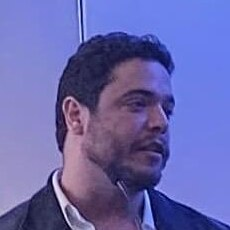
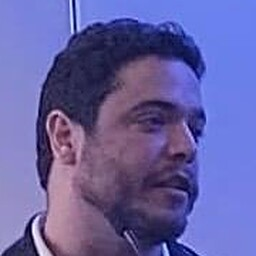
Match the site to the prototype and present the site on the home page
Implement Blog Prototype.dc.html directly instead of the handoff summary,
which differed from it. Body no longer sets the font size and line height,
code blocks have no syntax colours, and the first article heading starts
flush. Also fix the menu's "more" row, About spacing and hover states. Home,
archive, About, 404 and the open menu now match the rendered prototype from
360 to 1920 px, apart from the changes below.

Open the home page with the presentation band: what the site covers and
its topics, followed by the latest article. Update the site description,
the header line and the author sentence to match.

Crop the portrait closer to the face from the author's new photo, and
restore the original plate SVGs from the prototype.

Claude-Session: https://claude.ai/code/session_01LyEycHNyjBTkeSiRxhLKQH

diff --git a/assets/css/style.css b/assets/css/style.css
@@ -1,6 +1,4 @@
 /* Aureliano Guedes — "Applied science magazine" (direction 1a) */
-@import url("https://fonts.googleapis.com/css2?family=Newsreader:ital,opsz,wght@0,6..72,400;0,6..72,500;0,6..72,600;1,6..72,400;1,6..72,500&family=IBM+Plex+Mono:wght@400;500&display=swap");
-
 :root {
   --paper: #F5F0E4;        /* page */
   --paper-raised: #FAF6EC; /* plates, menu, code */
@@ -40,8 +38,6 @@ body {
   background: var(--paper);
   color: var(--ink);
   font-family: var(--serif);
-  font-size: var(--fs-body);
-  line-height: 1.62;
   overflow-wrap: break-word;
   -webkit-font-smoothing: antialiased;
 }
@@ -69,7 +65,7 @@ img { max-width: 100%; height: auto; }
   border-bottom: 1px solid var(--ink);
   background: var(--paper);
 }
-.site-name {
+.site-name, .site-name:hover {
   display: flex; align-items: center; gap: 12px; min-height: 44px;
   color: var(--ink); text-decoration: none; white-space: nowrap;
   font-size: clamp(17px, 15px + 0.6vw, 23px); font-weight: 600; letter-spacing: -0.01em;
@@ -84,7 +80,7 @@ img { max-width: 100%; height: auto; }
   font-family: var(--mono); font-size: clamp(12px, 11.5px + 0.1vw, 13px); letter-spacing: 0.12em; text-transform: uppercase;
   -webkit-tap-highlight-color: transparent;
 }
-.nav-link:hover, .nav-link[aria-current="page"] { color: var(--accent); }
+.nav-link:hover { color: var(--accent); }
 .nav-toggle::after {
   content: ""; border-top: 5px solid currentColor; border-left: 4px solid transparent; border-right: 4px solid transparent;
   transition: transform 120ms;
@@ -102,17 +98,17 @@ img { max-width: 100%; height: auto; }
 .articles-menu a:hover, .articles-menu a:focus-visible { background: var(--paper-deep); outline-offset: -2px; }
 .articles-menu time { font-family: var(--mono); font-size: 11px; letter-spacing: 0.1em; text-transform: uppercase; color: var(--muted); }
 .articles-menu .title { font-size: 19px; line-height: 1.25; font-weight: 500; }
-.articles-menu .more { min-height: 48px; justify-content: center; font-family: var(--mono); font-size: 14px; color: var(--accent); }
+.articles-menu .more { flex-direction: row; align-items: center; min-height: 48px; padding: 0 18px; font-family: var(--mono); font-size: 14px; color: var(--accent); text-decoration: underline; text-decoration-color: var(--accent); }
 
 /* ---------- Plates (per-post art) ---------- */
 .plate { margin: 0; display: flex; flex-direction: column; gap: 10px; min-width: 0; }
 .plate-frame { padding: 14px; border: 1px solid var(--ink); background: var(--paper-raised); }
 .plate-frame img { display: block; width: 100%; max-height: calc(100vh - 300px); min-height: 360px; object-fit: contain; }
-.plate figcaption, .plate-crop figcaption { font-family: var(--mono); font-size: 11px; letter-spacing: 0.06em; line-height: 1.5; color: var(--muted); }
+.plate figcaption { font-family: var(--mono); font-size: 11px; letter-spacing: 0.06em; line-height: 1.5; color: var(--muted); }
 .plate-crop { margin: 0 calc(-1 * var(--gutter)); }
 .plate-crop > div { border-top: 1px solid var(--ink); border-bottom: 1px solid var(--ink); background: var(--paper-raised); }
 .plate-crop img { display: block; width: 100%; max-height: 420px; object-fit: cover; }
-.plate-crop figcaption { padding: 10px var(--gutter) 0; letter-spacing: 0; }
+.plate-crop figcaption { padding: 10px var(--gutter) 0; font-family: var(--mono); font-size: 11px; color: var(--muted); }
 .plate { display: none; }
 
 /* ---------- Home cover ---------- */
@@ -122,6 +118,7 @@ img { max-width: 100%; height: auto; }
   padding: clamp(1.5rem, 1rem + 2.5vw, 3.25rem) var(--gutter) clamp(1.75rem, 1rem + 1.5vw, 2.25rem);
 }
 .cover-text { display: flex; flex-direction: column; min-width: 0; }
+.cover .meta { font-size: clamp(11px, 10.5px + 0.15vw, 12px); }
 .cover h1 { margin: clamp(0.875rem, 0.6rem + 1vw, 1.625rem) 0 0; font-size: var(--fs-display); line-height: 0.98; font-weight: 500; letter-spacing: -0.026em; text-wrap: balance; }
 .cover h1 a, .archive h2 a { color: var(--ink); text-decoration: none; }
 .cover h1 a:hover, .archive h2 a:hover { color: var(--accent); }
@@ -136,6 +133,7 @@ img { max-width: 100%; height: auto; }
 .cover-steps .label { margin: 2.5rem 0 10px; font-family: var(--mono); font-size: 11px; letter-spacing: 0.14em; text-transform: uppercase; color: var(--muted); }
 .cover-steps ol { display: grid; grid-template-columns: repeat(auto-fit, minmax(min(100%, 12rem), 1fr)); gap: 6px 24px; margin: 0; padding: 0; list-style: none; font-size: 17px; line-height: 1.3; }
 .cover-steps a { display: flex; gap: 8px; min-height: 32px; color: var(--ink); text-decoration: none; }
+.cover-steps a:hover { color: var(--accent); }
 .cover-steps span { padding-top: 3px; font-family: var(--mono); font-size: 12px; color: var(--accent); }
 
 .author-band {
@@ -145,7 +143,11 @@ img { max-width: 100%; height: auto; }
 .author-band .who { flex: 1 1 28rem; display: flex; align-items: flex-start; gap: 16px; min-width: 0; }
 .author-band img { flex: none; width: clamp(44px, 40px + 1vw, 60px); border-radius: 50%; filter: grayscale(1) contrast(1.05); }
 .author-band p { margin: 0; font-size: clamp(1.125rem, 1rem + 0.45vw, 1.4375rem); line-height: 1.32; text-wrap: pretty; }
-.author-band .aside { margin-top: 4px; font-family: var(--mono); font-size: 12px; letter-spacing: 0.06em; color: var(--muted); }
+/* As the home page's opening, the band sits under the header and the cover takes the remaining height */
+.home > .author-band:first-child { margin-top: 0; border-top: 0; border-bottom: 1px solid var(--ink); }
+.home > .author-band:first-child + .cover { flex: 1; }
+.author-band .meta { margin-top: 10px; font-size: 12px; line-height: normal; }
+.author-band .aside { margin-top: 4px; font-family: var(--mono); font-size: 12px; line-height: normal; letter-spacing: 0.06em; color: var(--muted); }
 .link-row { display: flex; flex-wrap: wrap; margin: 0 0 0 -10px; padding: 0; list-style: none; font-family: var(--mono); font-size: 13px; }
 .link-row a { display: inline-flex; align-items: center; min-height: 44px; padding: 0 10px; }
 .link-row .accent { color: var(--accent); }
@@ -165,10 +167,16 @@ img { max-width: 100%; height: auto; }
 .about-head { display: flex; flex-wrap: wrap; align-items: flex-end; gap: 20px 32px; margin-top: 12px; padding-bottom: clamp(1.5rem, 1rem + 2vw, 2.5rem); border-bottom: 1px solid var(--ink); }
 .about-head .page-title { flex: 1 1 20rem; margin: 0; }
 .about-head img { width: clamp(72px, 60px + 3vw, 104px); border-radius: 50%; filter: grayscale(1) contrast(1.05); }
-.about-body { max-width: var(--measure); margin-top: clamp(1.5rem, 1rem + 2vw, 2.5rem); }
-.about-body .lede { font-size: clamp(1.375rem, 1.2rem + 0.8vw, 1.75rem); line-height: 1.35; }
+.about-body { max-width: var(--measure); margin-top: clamp(1.5rem, 1rem + 2vw, 2.5rem); font-size: var(--fs-body); line-height: 1.62; }
+.about-body p { margin: 0 0 1.1em; }
+.about-body .lede { font-size: clamp(1.375rem, 1.2rem + 0.8vw, 1.75rem); line-height: 1.35; text-wrap: pretty; }
+.about-body .link-row { gap: 0 4px; margin: 1.75rem 0 0 -10px; font-size: 14px; }
+.page-404 { padding-bottom: clamp(2rem, 1.25rem + 3vw, 4.5rem); }
+.page-404 .page-title { margin: 0; }
+.page-404 p { margin: 1.25rem 0 0; font-size: 1.25rem; }
 
 /* ---------- Post ---------- */
+.post { flex: 1; display: flex; flex-direction: column; }
 .post-header {
   display: grid; grid-template-columns: minmax(0, 1fr); gap: clamp(1.5rem, 1rem + 3vw, 4rem); align-items: end;
   width: 100%; max-width: var(--wide); margin: 0 auto;
@@ -188,27 +196,31 @@ img { max-width: 100%; height: auto; }
 .toc ol, .toc-inline ol { margin: 0; padding: 0; list-style: none; font-size: 16px; line-height: 1.3; counter-reset: toc; }
 .toc a, .toc-inline a { display: flex; gap: 8px; align-items: baseline; min-height: 36px; padding: 6px 0; color: var(--ink); text-decoration: none; counter-increment: toc; }
 .toc a::before, .toc-inline a::before { content: counter(toc, decimal-leading-zero); flex: none; width: 1.5rem; font-family: var(--mono); font-size: 11px; color: var(--accent); }
-.toc a:hover, .toc-inline a:hover { color: var(--accent); }
+.toc a:hover { color: var(--accent); }
 .toc-inline { margin: 0 0 2rem; padding: 14px 0 6px; border-top: 1px solid var(--ink); border-bottom: 1px solid var(--rule); }
 .toc-inline ol { display: grid; grid-template-columns: repeat(auto-fit, minmax(min(100%, 13rem), 1fr)); gap: 0 20px; font-size: 17px; }
 .toc-inline a { min-height: 44px; padding: 10px 0; }
 
-.post-content { flex: 0 1 var(--measure); min-width: 0; }
-.post-content > :first-child { margin-top: 0; }
+.post-content { flex: 0 1 var(--measure); min-width: 0; font-size: var(--fs-body); line-height: 1.62; }
 .post-content p { margin: 0 0 1.1em; text-wrap: pretty; }
+.post-content > p:has(+ ul), .post-content > p:has(+ ol) { margin-bottom: 0.6em; text-wrap: wrap; }
+.post-content > p:has(+ .highlighter-rouge) { text-wrap: wrap; }
 .post-content h2 { margin: 2.4em 0 0.6em; font-size: var(--fs-h2); line-height: 1.15; font-weight: 500; letter-spacing: -0.015em; }
 .post-content h3 { margin: 1.8em 0 0.5em; font-size: var(--fs-h3); line-height: 1.2; font-weight: 600; letter-spacing: -0.01em; }
 .post-content h4 { margin: 1.6em 0 0.4em; font-size: 1.125em; line-height: 1.25; font-weight: 600; }
 .post-content ul, .post-content ol { margin: 0 0 1.1em; padding-left: 1.2em; }
 .post-content li { margin: 0.25em 0; }
 .post-content li > ul { margin: 0.25em 0 0; }
+.post-content li li { margin: 0.2em 0; }
 .post-content strong { font-weight: 600; }
 /* Keep nav lists inside the article free of the prose list spacing above */
 .post-content .toc-inline ol { margin: 0; padding: 0; }
 .post-content .toc-inline li { margin: 0; }
-.post-content .toc-label { margin: 0 0 8px; }
+.post-content .toc-label { margin: 0 0 4px; }
+/* The first heading starts flush, whether or not the inline contents precede it */
+.post-content > :first-child, .post-content > .toc-inline + * { margin-top: 0; }
 /* "**Note:**" at the start of a paragraph — add {: .note} in Markdown, see README */
-.post-content .note strong:first-child { margin-right: 8px; font-family: var(--mono); font-size: 12px; font-weight: 500; letter-spacing: 0.12em; text-transform: uppercase; color: var(--accent); }
+.post-content .note strong:first-child { margin-right: 5px; font-family: var(--mono); font-size: 12px; font-weight: 500; letter-spacing: 0.12em; text-transform: uppercase; color: var(--accent); }
 .step-label { display: block; margin-bottom: 4px; font-family: var(--mono); font-size: 11px; font-weight: 500; letter-spacing: 0.14em; text-transform: uppercase; color: var(--accent); }
 
 /* ---------- Code ---------- */
@@ -221,25 +233,21 @@ code { font-family: var(--mono); font-size: 0.82em; }
 .code-copy:hover { color: var(--accent); }
 pre {
   margin: 0; overflow-x: auto; padding: 16px 18px;
-  border: 1px solid var(--rule); background: #FBF8F0;
-  font-size: clamp(13px, 12.5px + 0.15vw, 14px); line-height: 1.6; tab-size: 4;
+  border: 1px solid var(--rule); background: #FBF8F0; color: var(--ink);
+  font-family: var(--mono); font-size: clamp(13px, 12.5px + 0.15vw, 14px); line-height: 1.6; white-space: pre; tab-size: 4;
 }
 pre code { font-size: inherit; }
-/* Rouge: two inks only */
-.highlight .c, .highlight .c1, .highlight .cm { color: var(--muted); font-style: italic; }
-.highlight .s, .highlight .s1, .highlight .s2, .highlight .sa, .highlight .si, .highlight .sd { color: var(--accent); }
-.highlight .k, .highlight .kn, .highlight .kc, .highlight .ow { font-weight: 500; }
-.highlight .nf, .highlight .nc { text-decoration: underline; text-decoration-color: var(--rule); text-underline-offset: 0.2em; }
-.highlight .mi, .highlight .mf { color: var(--accent); }
 
 .post-author { display: flex; align-items: flex-start; gap: 16px; margin-top: 3rem; padding: 20px 0; border-top: 1px solid var(--ink); border-bottom: 1px solid var(--ink); }
 .post-author img { flex: none; width: 48px; border-radius: 50%; filter: grayscale(1); }
-.post-author p { margin: 0; font-size: 1.0625em; line-height: 1.4; }
+.post-author p { margin: 0; font-size: 1.0625em; line-height: 1.4; text-wrap: wrap; }
 .post-content .post-author .link-row { margin: 6px 0 0 -10px; padding: 0; }
+.post-content .post-author .link-row li { margin: 0; }
+.post-author .link-row li, .author-band .link-row li { display: flex; }
 
 /* ---------- Footer ---------- */
 .site-footer {
-  display: flex; flex-wrap: wrap; align-items: center; justify-content: space-between; gap: 4px 24px;
+  flex: none; display: flex; flex-wrap: wrap; align-items: center; justify-content: space-between; gap: 4px 24px;
   padding: 8px var(--gutter); border-top: 1px solid var(--ink);
   font-family: var(--mono); font-size: 12px; color: var(--muted);
 }
@@ -250,6 +258,12 @@ pre code { font-size: inherit; }
 @media (max-width: 379px) {
   .site-photo { display: none; }
   .site-header { gap: 8px; }
+}
+
+/* The topics stop fitting on one line here: columns instead of separators left hanging at line ends */
+@media (max-width: 1119px) {
+  .author-band .meta { display: grid; grid-template-columns: repeat(auto-fit, minmax(min(100%, 15rem), 1fr)); gap: 4px 24px; }
+  .author-band .meta [aria-hidden] { display: none; }
 }
 
 @media (min-width: 960px) {

diff --git a/design-system/src/components/AuthorBand.tsx b/design-system/src/components/AuthorBand.tsx
@@ -1,26 +1,30 @@
 import { LinkRow } from "./LinkRow";
+import { Meta } from "./Meta";
 import type { LinkItem } from "../types";
 
 export interface AuthorBandProps {
-  /** One sentence about what the author does. */
+  /** One sentence about what the site covers. */
   intro: string;
   /** Short mono line below the sentence. */
   aside?: string;
+  /** What the site covers, as a mono line. The first topic gets the vermilion accent. */
+  topics?: string[];
   photoSrc: string;
   /** Used as the portrait's alternative text. */
   name: string;
   links?: LinkItem[];
 }
 
-/** Full-width band on the deep paper tone that introduces the author at the end of the home page. */
-export function AuthorBand({ intro, aside, photoSrc, name, links = [] }: AuthorBandProps) {
+/** Full-width band on the deep paper tone that opens the home page: who writes, what about, and the topics. Render it first inside <main className="home">. */
+export function AuthorBand({ intro, aside, topics = [], photoSrc, name, links = [] }: AuthorBandProps) {
   return (
-    <section className="author-band" aria-label="About the author">
+    <section className="author-band" aria-label="About this site">
       <div className="who">
         <img src={photoSrc} alt={name} width={60} height={60} />
         <div>
           <p>{intro}</p>
           {aside && <p className="aside">{aside}</p>}
+          {topics.length > 0 && <Meta kind={topics[0]} items={topics.slice(1)} />}
         </div>
       </div>
       <LinkRow links={links} />

diff --git a/index.html b/index.html
@@ -1,9 +1,10 @@
 ---
 layout: default
-description: "Articles on AI for refinery operations and technical document search, by Aureliano Guedes."
 ---
 {%- assign lead = site.posts.first %}
+{%- assign number_words = "zero,one,two,three,four,five,six,seven,eight,nine,ten,eleven,twelve" | split: "," %}
 <main class="home">
+  {% include author-band.html %}
   {%- if lead %}
   <section class="cover">
     <div class="cover-text">
@@ -13,7 +14,7 @@ description: "Articles on AI for refinery operations and technical document sear
       <a class="cta" href="{{ lead.url | relative_url }}">Read the {{ lead.kind | default: "article" | downcase }} →</a>
       {%- if lead.steps %}
       <div class="cover-steps">
-        <p class="label">In {{ lead.steps.size }} steps</p>
+        <p class="label">In {{ number_words[lead.steps.size] | default: lead.steps.size }} steps</p>
         <ol>
           {%- for s in lead.steps %}
           <li><a href="{{ lead.url | relative_url }}#{{ s.id }}"><span>{{ forloop.index | prepend: '0' | slice: -2, 2 }}</span>{{ s.label }}</a></li>
@@ -30,5 +31,4 @@ description: "Articles on AI for refinery operations and technical document sear
     <p>No articles published yet.</p>
   </div>
   {%- endif %}
-  {% include author-band.html %}
 </main>

diff --git a/_includes/author-band.html b/_includes/author-band.html
@@ -1,9 +1,10 @@
-<section class="author-band" aria-label="About the author">
+<section class="author-band" aria-label="About this site">
   <div class="who">
     <img src="{{ site.profile_image | relative_url }}" alt="{{ site.author | escape }}" width="60" height="60">
     <div>
       <p>{{ site.intro }}</p>
-      <p class="aside">Before refineries, bioinformatics.</p>
+      <p class="aside">{{ site.tagline }}</p>
+      <p class="meta">{% for topic in site.topics %}{% unless forloop.first %}<span aria-hidden="true">·</span>{% endunless %}<span{% if forloop.first %} class="kind"{% endif %}>{{ topic | escape }}</span>{% endfor %}</p>
     </div>
   </div>
   <ul class="link-row">

diff --git a/.design-sync/previews/AuthorBand.tsx b/.design-sync/previews/AuthorBand.tsx
@@ -7,8 +7,9 @@ export const Default = () => (
 <AuthorBand
     name="Aureliano Guedes"
     photoSrc={profilePhoto}
-    intro="I build predictive models for refinery engineers and write about the data and code behind them."
-    aside="Before refineries, bioinformatics."
+    intro="I write about technology, mainly AI: how to apply it and how to lead projects that deliver results."
+    aside="Technology is only a means to building real solutions."
+    topics={["Technology & AI", "Article commentary", "Market analysis & trends", "Tutorials & tips"]}
     links={[
       { label: "About", href: "/about/", accent: true },
       { label: "All articles", href: "/articles/" },

diff --git a/_layouts/default.html b/_layouts/default.html
@@ -7,6 +7,7 @@
   <meta name="description" content="{{ page.description | default: site.description | strip_html | escape }}">
   <link rel="preconnect" href="https://fonts.googleapis.com">
   <link rel="preconnect" href="https://fonts.gstatic.com" crossorigin>
+  <link rel="stylesheet" href="https://fonts.googleapis.com/css2?family=Newsreader:ital,opsz,wght@0,6..72,400;0,6..72,500;0,6..72,600;1,6..72,400;1,6..72,500&family=IBM+Plex+Mono:wght@400;500&display=swap">
   <link rel="stylesheet" href="{{ '/assets/css/style.css' | relative_url }}">
   {% if page.art %}<meta property="og:image" content="{{ page.art | absolute_url }}">{% endif %}
   {% feed_meta %}

diff --git a/.design-sync/previews/PostContent.tsx b/.design-sync/previews/PostContent.tsx
@@ -29,7 +29,7 @@ export const ArticleBody = () => (
     <Note>The code in this tutorial targets those older interfaces.</Note>
     <PostAuthor
       photoSrc={profilePhoto}
-      intro="I build predictive models for refinery engineers and write about the data and code behind them."
+      intro="I write about technology, mainly AI: how to apply it and how to lead projects that deliver results."
       links={[
         { label: "About Aureliano", href: "/about/", accent: true },
         { label: "All articles", href: "/articles/" },

diff --git a/design-system/src/assets.ts b/design-system/src/assets.ts
@@ -2,7 +2,7 @@ import plate from "../../assets/art/rag-postgres-tutorial.svg";
 import plateCrop from "../../assets/art/rag-postgres-tutorial-crop.svg";
 import photo from "../../assets/images/profile.jpeg";
 
-/** Portrait of Aureliano Guedes, 230 × 230 px. */
+/** Portrait of Aureliano Guedes, 256 × 256 px. */
 export const profilePhoto: string = photo;
 /** Full plate for the RAG tutorial, 520 × 600 px. */
 export const ragPostgresPlate: string = plate;

diff --git a/.design-sync/previews/PostAuthor.tsx b/.design-sync/previews/PostAuthor.tsx
@@ -6,7 +6,7 @@ export const Default = () => (
   <Paper>
 <PostAuthor
     photoSrc={profilePhoto}
-    intro="I build predictive models for refinery engineers and write about the data and code behind them."
+    intro="I write about technology, mainly AI: how to apply it and how to lead projects that deliver results."
     links={[
       { label: "About Aureliano", href: "/about/", accent: true },
       { label: "All articles", href: "/articles/" },

diff --git a/_includes/site-nav.html b/_includes/site-nav.html
@@ -3,7 +3,7 @@
     <img class="site-photo" src="{{ site.profile_image | relative_url }}" alt="" width="36" height="36">
     {{ site.author | escape }}
   </a>
-  <p class="site-folio">AI for refinery operations · Technical document search</p>
+  <p class="site-folio">Technology and AI in practice</p>
   <nav aria-label="Main">
     <ul class="nav-links">
       <li class="nav-articles">

diff --git a/404.html b/404.html
@@ -4,7 +4,7 @@ layout: default
 title: "Page not found"
 description: "This page could not be found."
 ---
-<main class="page">
+<main class="page page-404">
   <h1 class="page-title">Page not found</h1>
   <p>This page doesn’t exist. Go back to <a href="{{ '/' | relative_url }}">Home</a> or browse <a href="{{ '/articles/' | relative_url }}">Articles</a>.</p>
 </main>

diff --git a/_layouts/post.html b/_layouts/post.html
@@ -1,7 +1,7 @@
 ---
 layout: default
 ---
-<main>
+<main class="post">
   <article>
     <header class="post-header">
       <div>
